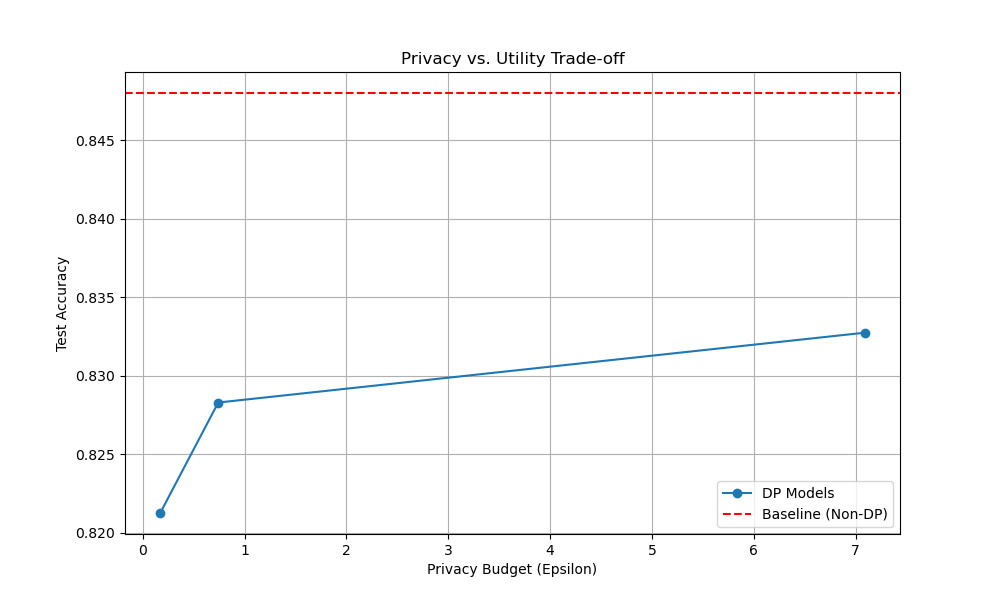
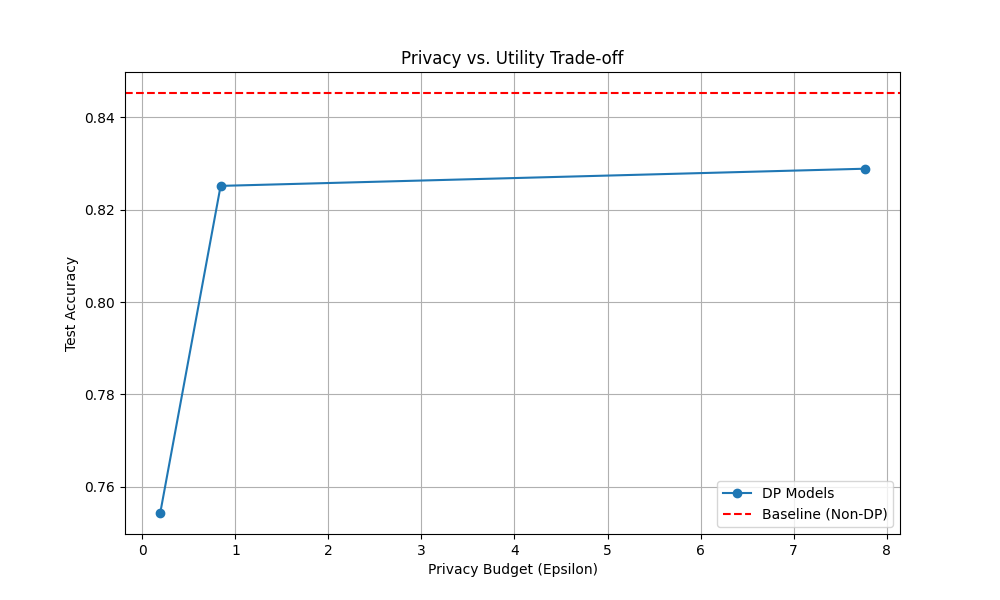
WIP: local changes before rebase

diff --git a/src/train_utils.py b/src/train_utils.py
@@ -1,22 +1,57 @@
 import torch
+import torch.nn.functional as F
+import copy
 from sklearn.metrics import accuracy_score, f1_score
 import numpy as np
 from opacus import PrivacyEngine
 
-def train_model(model, train_loader, optimizer, criterion, device, epochs=10, privacy_engine=None):
+def train_model(model, train_loader, optimizer, criterion, device, epochs=10, val_loader=None, patience=None, mixup_alpha=0.0):
     model.train()
+    best_state = None
+    best_val = None
+    no_improve = 0
     for epoch in range(epochs):
         for i, (images, labels) in enumerate(train_loader):
             images = images.to(device)
             labels = labels.to(device)
-
+            if mixup_alpha > 0.0:
+                lam = np.random.beta(mixup_alpha, mixup_alpha)
+                idx = torch.randperm(images.size(0), device=device)
+                mixed_images = lam * images + (1 - lam) * images[idx]
+                mixed_labels = lam * labels + (1 - lam) * labels[idx]
+                inputs = mixed_images
+                targets = mixed_labels
+            else:
+                inputs = images
+                targets = labels
             optimizer.zero_grad()
-            outputs = model(images)
-            loss = criterion(outputs, labels)
+            outputs = model(inputs)
+            loss = criterion(outputs, targets)
             loss.backward()
             optimizer.step()
-        
-        print(f"Epoch [{epoch+1}/{epochs}] completed.")
+        if val_loader is not None:
+            model.eval()
+            vals = []
+            with torch.no_grad():
+                for vimages, vlabels in val_loader:
+                    vimages = vimages.to(device)
+                    vlabels = vlabels.to(device)
+                    voutputs = model(vimages)
+                    vloss = criterion(voutputs, vlabels)
+                    vals.append(vloss.item())
+            cur_val = float(np.mean(vals)) if len(vals) > 0 else None
+            if cur_val is not None:
+                if best_val is None or cur_val < best_val:
+                    best_val = cur_val
+                    best_state = copy.deepcopy(model.state_dict())
+                    no_improve = 0
+                else:
+                    no_improve += 1
+                    if patience is not None and no_improve >= patience:
+                        break
+            model.train()
+    if best_state is not None:
+        model.load_state_dict(best_state)
 
 def evaluate_model(model, test_loader, device):
     model.eval()
@@ -41,3 +76,53 @@ def evaluate_model(model, test_loader, device):
 
 def get_device():
     return torch.device("cuda" if torch.cuda.is_available() else "cpu")
+
+def _logits_from_probs(p):
+    eps = 1e-6
+    p = torch.clamp(p, eps, 1 - eps)
+    return torch.log(p / (1 - p))
+
+def fit_temperature(model, val_loader, device, max_iter=100):
+    model.eval()
+    t_param = torch.tensor(0.0, device=device, requires_grad=True)
+    opt = torch.optim.Adam([t_param], lr=0.01)
+    for _ in range(max_iter):
+        losses = []
+        for images, labels in val_loader:
+            images = images.to(device)
+            labels = labels.to(device)
+            with torch.no_grad():
+                probs = model(images)
+                logits = _logits_from_probs(probs)
+            T = F.softplus(t_param) + 1e-6
+            scaled = torch.sigmoid(logits / T)
+            loss = F.binary_cross_entropy(scaled, labels)
+            losses.append(loss)
+        if len(losses) == 0:
+            break
+        total = torch.stack(losses).mean()
+        opt.zero_grad()
+        total.backward()
+        opt.step()
+    T_final = float(F.softplus(t_param).item() + 1e-6)
+    return T_final
+
+def train_student_with_distillation(student, teacher, train_loader, optimizer, device, epochs=10, alpha=0.5, temperature=2.0):
+    student.train()
+    for epoch in range(epochs):
+        for images, labels in train_loader:
+            images = images.to(device)
+            labels = labels.to(device)
+            with torch.no_grad():
+                t_probs = teacher(images)
+                t_logits = _logits_from_probs(t_probs)
+                t_soft = torch.sigmoid(t_logits / temperature)
+            optimizer.zero_grad()
+            s_probs = student(images)
+            s_logits = _logits_from_probs(s_probs)
+            s_soft = torch.sigmoid(s_logits / temperature)
+            distill_loss = F.mse_loss(s_soft, t_soft)
+            ce_loss = F.binary_cross_entropy(s_probs, labels)
+            loss = alpha * distill_loss + (1 - alpha) * ce_loss
+            loss.backward()
+            optimizer.step()

diff --git a/src/old_main.py b/src/old_main.py
@@ -7,7 +7,7 @@ import matplotlib.pyplot as plt
 from opacus import PrivacyEngine
 from data_loader import load_data
 from models import AdultMLP
-from train_utils import train_model, evaluate_model, get_device
+from train_utils import train_model, evaluate_model, get_device, fit_temperature, train_student_with_distillation
 
 def run_experiment():
     print("Starting Differential Privacy Experiment...")
@@ -26,7 +26,7 @@ def run_experiment():
     
     # Load Data
     print("Loading data...")
-    train_loader, test_loader, input_dim = load_data(data_dir, batch_size=BATCH_SIZE)
+    train_loader, val_loader, test_loader, input_dim = load_data(data_dir, batch_size=BATCH_SIZE)
     
     results = []
     
@@ -34,7 +34,7 @@ def run_experiment():
     print("\n--- Training Baseline Model (Non-DP) ---")
     model = AdultMLP(input_dim).to(device)
     criterion = nn.BCELoss()
-    optimizer = optim.Adam(model.parameters(), lr=LR)
+    optimizer = optim.Adam(model.parameters(), lr=LR, weight_decay=1e-4)
     
     train_model(model, train_loader, optimizer, criterion, device, epochs=EPOCHS)
     
@@ -60,7 +60,7 @@ def run_experiment():
     for noise_mult in noise_multipliers:
         print(f"\n--- Training DP Model (Noise: {noise_mult}) ---")
         model = AdultMLP(input_dim).to(device)
-        optimizer = optim.Adam(model.parameters(), lr=LR)
+        optimizer = optim.Adam(model.parameters(), lr=LR, weight_decay=1e-4)
         
         privacy_engine = PrivacyEngine()
         model, optimizer, train_loader_dp = privacy_engine.make_private(
@@ -91,6 +91,44 @@ def run_experiment():
             "F1 Score": test_f1
         })
 
+    print("\n--- Training Regularized+Mixup+EarlyStopping ---")
+    model_reg = AdultMLP(input_dim).to(device)
+    optimizer_reg = optim.Adam(model_reg.parameters(), lr=LR, weight_decay=1e-4)
+    train_model(model_reg, train_loader, optimizer_reg, criterion, device, epochs=EPOCHS, val_loader=val_loader, patience=3, mixup_alpha=0.2)
+    train_acc, train_f1 = evaluate_model(model_reg, train_loader, device)
+    test_acc, test_f1 = evaluate_model(model_reg, test_loader, device)
+    gap = train_acc - test_acc
+    results.append({
+        "Model": "Regularized+Mixup+EarlyStopping",
+        "Epsilon": None,
+        "Noise Multiplier": 0,
+        "Train Accuracy": train_acc,
+        "Test Accuracy": test_acc,
+        "Gap": gap,
+        "F1 Score": test_f1
+    })
+
+    print("\n--- Training Distilled+TempScaled ---")
+    teacher = AdultMLP(input_dim).to(device)
+    opt_t = optim.Adam(teacher.parameters(), lr=LR, weight_decay=1e-4)
+    train_model(teacher, train_loader, opt_t, criterion, device, epochs=EPOCHS, val_loader=val_loader, patience=3)
+    student = AdultMLP(input_dim).to(device)
+    opt_s = optim.Adam(student.parameters(), lr=LR, weight_decay=1e-4)
+    train_student_with_distillation(student, teacher, train_loader, opt_s, device, epochs=EPOCHS, alpha=0.5, temperature=2.0)
+    T = fit_temperature(student, val_loader, device, max_iter=100)
+    train_acc, train_f1 = evaluate_model(student, train_loader, device)
+    test_acc, test_f1 = evaluate_model(student, test_loader, device)
+    gap = train_acc - test_acc
+    results.append({
+        "Model": "Distilled+TempScaled",
+        "Epsilon": None,
+        "Noise Multiplier": 0,
+        "Train Accuracy": train_acc,
+        "Test Accuracy": test_acc,
+        "Gap": gap,
+        "F1 Score": test_f1
+    })
+
     # --- 3. Save and Plot Results ---
     df_results = pd.DataFrame(results)
     csv_path = os.path.join(results_dir, "experiment_results.csv")
@@ -101,8 +139,7 @@ def run_experiment():
     # Plot Accuracy vs Epsilon
     plt.figure(figsize=(10, 6))
     
-    # Filter out baseline for the curve, but maybe plot it as a horizontal line
-    dp_results = df_results[df_results["Model"] != "Baseline (Non-DP)"]
+    dp_results = df_results[df_results["Model"].str.startswith("DP")]
     baseline_acc = df_results[df_results["Model"] == "Baseline (Non-DP)"]["Test Accuracy"].values[0]
     
     plt.plot(dp_results["Epsilon"], dp_results["Test Accuracy"], marker='o', label='DP Models')

diff --git a/src/plot_results.py b/src/plot_results.py
@@ -1,0 +1,55 @@
+import os
+import pandas as pd
+import matplotlib.pyplot as plt
+import numpy as np
+
+def main():
+    base_dir = os.path.dirname(__file__)
+    results_dir = os.path.join(base_dir, '../results')
+    csv_path = os.path.join(results_dir, 'experiment_results.csv')
+    df = pd.read_csv(csv_path)
+    models = list(df['Model'])
+    x = np.arange(len(models))
+    w = 0.35
+    fig, axes = plt.subplots(2, 2, figsize=(14, 10))
+    ax1 = axes[0, 0]
+    ax1.bar(x - w/2, df['Train Accuracy'], width=w, label='Train')
+    ax1.bar(x + w/2, df['Test Accuracy'], width=w, label='Test')
+    ax1.set_xticks(x)
+    ax1.set_xticklabels(models, rotation=30, ha='right')
+    ax1.set_ylabel('Accuracy')
+    ax1.set_title('Train vs Test Accuracy by Model')
+    ax1.legend()
+    ax1.grid(True, axis='y', linestyle='--', alpha=0.5)
+    ax2 = axes[0, 1]
+    ax2.bar(x, df['Gap'], width=0.6, color='tab:orange')
+    ax2.set_xticks(x)
+    ax2.set_xticklabels(models, rotation=30, ha='right')
+    ax2.set_ylabel('Gap (Train - Test)')
+    ax2.set_title('Generalization Gap by Model')
+    ax2.grid(True, axis='y', linestyle='--', alpha=0.5)
+    ax3 = axes[1, 0]
+    ax3.bar(x, df['F1 Score'], width=0.6, color='tab:green')
+    ax3.set_xticks(x)
+    ax3.set_xticklabels(models, rotation=30, ha='right')
+    ax3.set_ylabel('F1 Score')
+    ax3.set_title('F1 Score by Model')
+    ax3.grid(True, axis='y', linestyle='--', alpha=0.5)
+    ax4 = axes[1, 1]
+    dp_df = df[df['Model'].str.startswith('DP')]
+    ax4.plot(dp_df['Epsilon'], dp_df['Test Accuracy'], marker='o', linestyle='-', label='DP Models')
+    base_acc = df[df['Model'] == 'Baseline (Non-DP)']['Test Accuracy'].values
+    if len(base_acc) > 0:
+        ax4.axhline(y=base_acc[0], color='r', linestyle='--', label='Baseline')
+    ax4.set_xlabel('Privacy Budget (Epsilon)')
+    ax4.set_ylabel('Test Accuracy')
+    ax4.set_title('DP: Test Accuracy vs Epsilon')
+    ax4.legend()
+    ax4.grid(True)
+    fig.tight_layout()
+    out_path = os.path.join(results_dir, 'summary_all.png')
+    plt.savefig(out_path)
+    print(f'Summary plot saved to {out_path}')
+
+if __name__ == '__main__':
+    main()

diff --git a/src/data_loader.py b/src/data_loader.py
@@ -33,7 +33,7 @@ class AdultDataset(Dataset):
     def __getitem__(self, idx):
         return self.X[idx], self.y[idx]
 
-def load_data(data_dir, batch_size=64):
+def load_data(data_dir, batch_size=64, val_split=0.2):
     """
     Loads and preprocesses the Adult dataset.
     Returns train_loader, test_loader, and input_dim.
@@ -74,14 +74,25 @@ def load_data(data_dir, batch_size=64):
     X_train_processed = preprocessor.fit_transform(X_train)
     X_test_processed = preprocessor.transform(X_test)
 
-    # Create Datasets
-    train_dataset = AdultDataset(X_train_processed, y_train)
+    n_train = X_train_processed.shape[0]
+    idx = np.random.permutation(n_train)
+    val_size = int(n_train * val_split)
+    val_idx = idx[:val_size]
+    train_idx = idx[val_size:]
+
+    X_train_final = X_train_processed[train_idx]
+    y_train_final = y_train[train_idx]
+    X_val_final = X_train_processed[val_idx]
+    y_val_final = y_train[val_idx]
+
+    train_dataset = AdultDataset(X_train_final, y_train_final)
+    val_dataset = AdultDataset(X_val_final, y_val_final)
     test_dataset = AdultDataset(X_test_processed, y_test)
 
-    # Create DataLoaders
     train_loader = DataLoader(train_dataset, batch_size=batch_size, shuffle=True)
+    val_loader = DataLoader(val_dataset, batch_size=batch_size, shuffle=False)
     test_loader = DataLoader(test_dataset, batch_size=batch_size, shuffle=False)
 
     input_dim = X_train_processed.shape[1]
 
-    return train_loader, test_loader, input_dim
+    return train_loader, val_loader, test_loader, input_dim

diff --git a/src/models.py b/src/models.py
@@ -6,12 +6,14 @@ class AdultMLP(nn.Module):
         super(AdultMLP, self).__init__()
         self.fc1 = nn.Linear(input_dim, hidden_dim)
         self.relu = nn.ReLU()
+        self.dropout = nn.Dropout(p=0.5)
         self.fc2 = nn.Linear(hidden_dim, 1)
         self.sigmoid = nn.Sigmoid()
 
     def forward(self, x):
         out = self.fc1(x)
         out = self.relu(out)
+        out = self.dropout(out)
         out = self.fc2(out)
         out = self.sigmoid(out)
         return out
